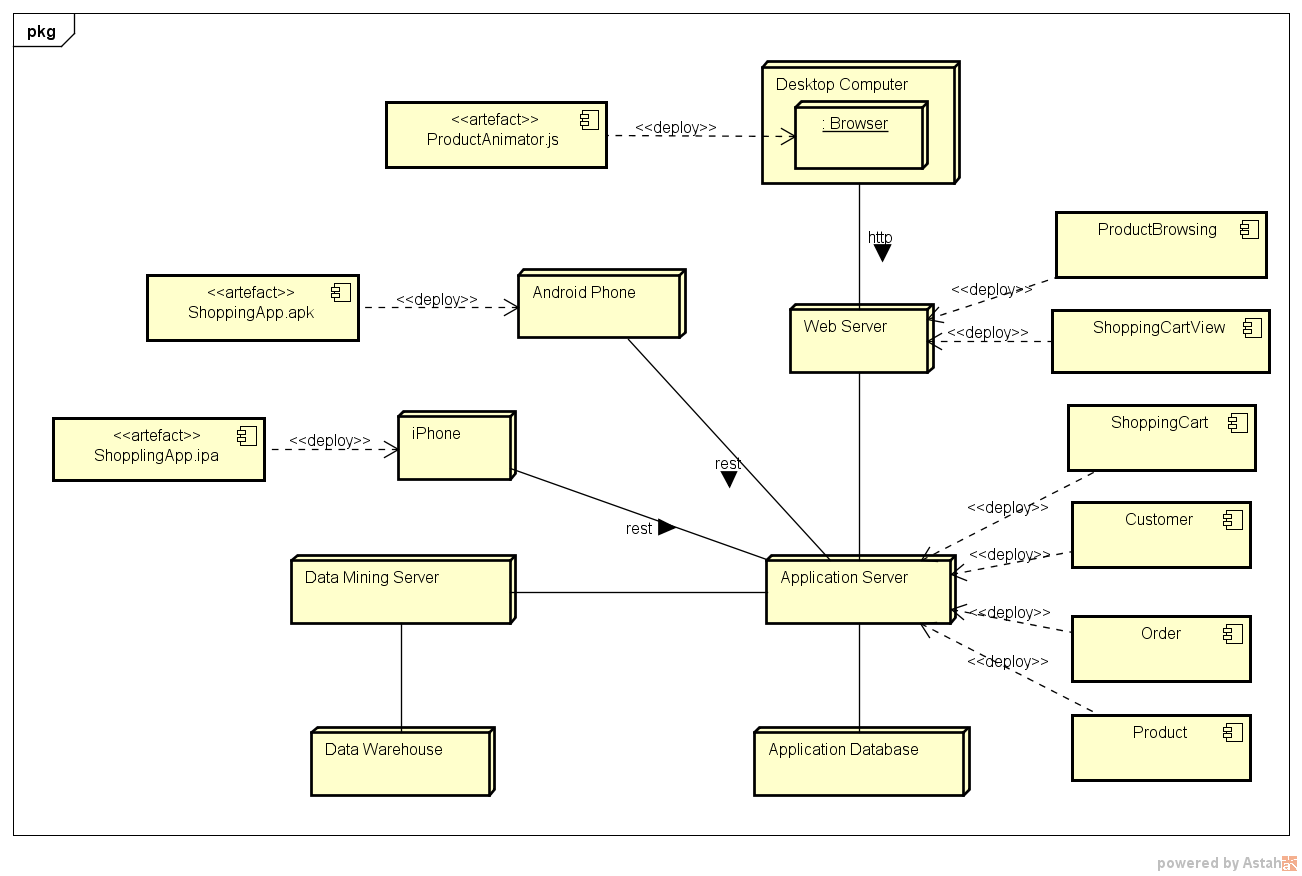
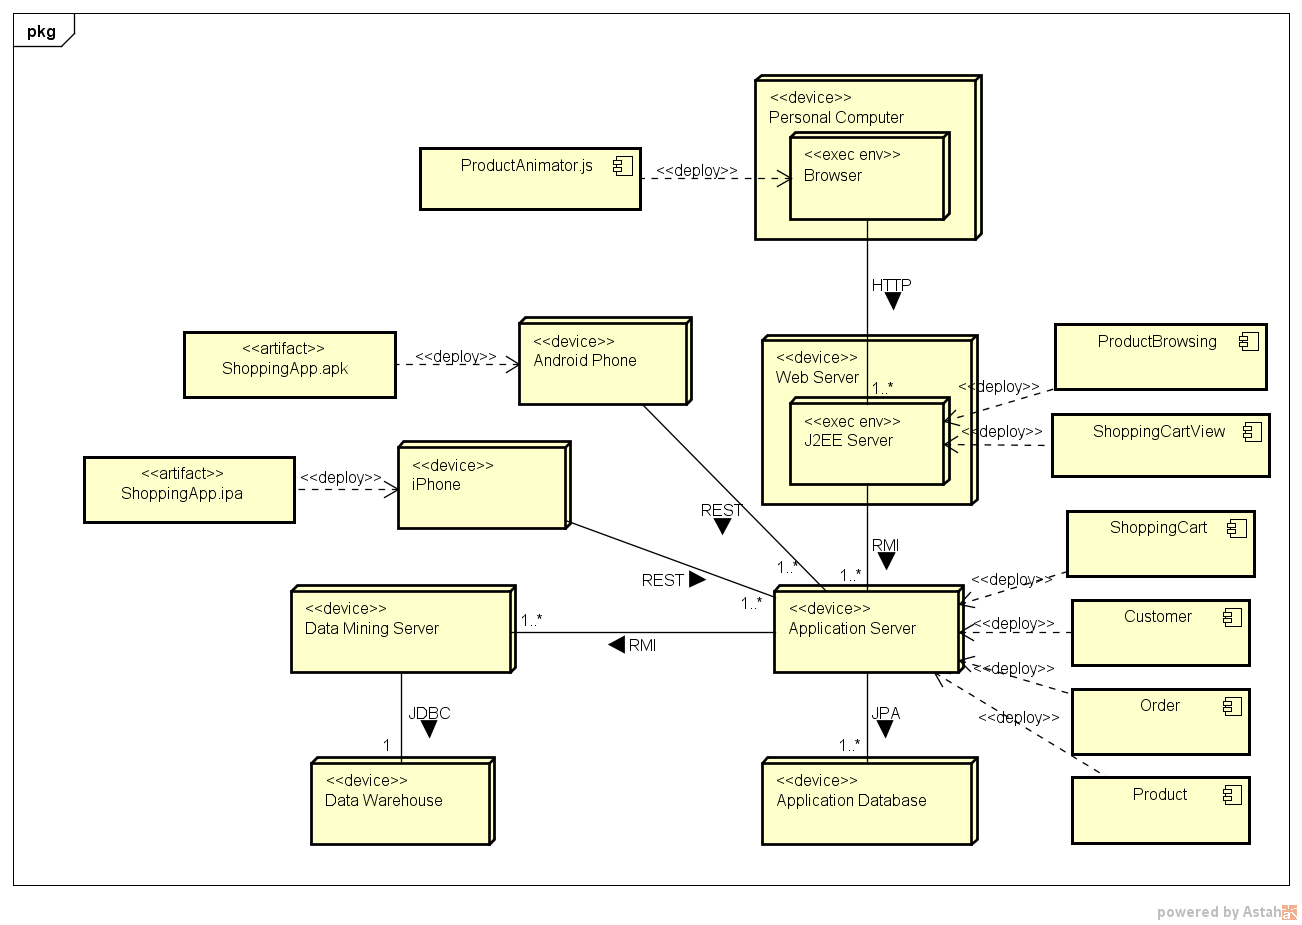
Completed example in architectural views notes.

diff --git a/notes/views/content.tex b/notes/views/content.tex
@@ -44,8 +44,8 @@ Module views are composed of modules, which are static units of functionality su
 The defining characteristic of a module is that it represents software responsible for some well-defined functionality.
 For example, a class which converts JSON to XML would be considered a module, as would a function which performs the same task.
 
-The primary function of module views are to communicate the dependencies of a module.
-Rarely does software work completely in isolation, often is it constructed with implicit or explicit dependencies.
+The primary function of module views is to communicate the dependencies of a module.
+Rarely does software work completely in isolation, often it is constructed with implicit or explicit dependencies.
 A module which converts JSON to XML might depend upon a module which parses JSON and a module which can format XML.
 Module views make these dependencies explicit.
 
@@ -102,12 +102,12 @@ The service may then communicate the new user information to a database via SQL 
 When we look at software architecture, component-and-connector views are the most commonly used views.
 They are common because they contain runtime information which is not easily automatically extracted.
 Module views can be generated after the fact, i.e. it is easy enough for a project to generate a UML inheritance diagram.
-Component-and-connector views are often something that is maintained manually by architects and developers.
+Component-and-connector views are often something that are maintained manually by architects and developers.
 
 \section{Allocation Views}
 According to Bass et al, allocation views map the software's structures to the system's non-software structures \cite{bass2021software}.
-They include the concepts of who is building which software elements,
-where are source files stored for different activites such as development and testing,
+They include concepts such as who is developing which software elements,
+where are source files stored for different activities such as development and testing,
 and where are software elements executed.
 The first two points are important for project management and build management.
 The last point of how the software is executed on different processing nodes is important for architectural design.
@@ -120,12 +120,14 @@ This design of the logical architecture must contain components that can be allo
 and these nodes must have communication links that enable the components to interact.
 
 \section{On-line Store Example}
-Consider a simple on-line store. It sells a number of different products. Customers can use both web and mobile applications providing to shop at the store.
+Consider a simple on-line store selling a number of different products. Customers can use both web and mobile applications to shop at the store.
+The architecture is designed to support the functional requirement that a customer can start shopping on one device and continue on another device.
 
 \subsection{Allocation View}
 Figure \ref{fig:deploymentDiagram} is an example allocation view of the system.
 It is a UML deployment diagram showing the system's physical architecture
 and some of the components that are deployed onto that structure.
+For simplicity, details such as load balancing and failover are not shown in this example.
 
 \begin{figure}[h]
     \includegraphics[trim=37 57 20 40,clip,width=\textwidth]{images/deployment_diagram.png}
@@ -133,15 +135,54 @@ and some of the components that are deployed onto that structure.
     \label{fig:deploymentDiagram}
 \end{figure}
 
+\noindent
 There are both web and mobile applications that allow customers to shop at the store.
-A web server handles browser requests from customers, using the HTTP protocol.
-A JavaScript module called ProductAnimator is downloaded to the customer's browser to allow them to see interactive 3d views of products.
-The ProductBrowsing and ShoppingCartView components run on the web server, providing those aspects of the user interaction.
-The web server has a network connection to an application server, which provides the core logic of the on-line store.
-Examples of components that would run on the application server are Customer, ShoppingCart, Order and Product.
-The application server has network connections to a server running the application database and to a data mining server.
-The data mining server has a network connection to a server running the data warehouse.
-The mobile applications run on their respective phone environments and use REST API calls over the internet to interact with application server.
+A J2EE server (e.g. \link{TomEE}{https://tomee.apache.org/}), running on a web server hardware platform,
+handles browser requests from customers, using the HTTP protocol over the Internet.
+A JavaScript module called \texttt{ProductAnimator} is downloaded to the customer's browser to allow them to see interactive 3d views of products.
+The \texttt{ProductBrowsing} and \texttt{ShoppingCartView} components run on the J2EE server, providing those aspects of the user interaction.
+The J2EE server uses RMI\footnote{Remote Method Invocation} over a network connection to an application server.
+
+The application server provides the core logic of the on-line store.
+Examples of components that would run on the application server are \texttt{Customer}, \texttt{ShoppingCart}, \texttt{Order} and \texttt{Product}.
+The application server uses JPA\footnote{Java Persistence API} over a network connection to a server running the application database.
+The application server also uses RMI over a network connection to communicate with a data mining server.
+
+The data mining server uses JDBC\footnote{Java DataBase Connectivity} over a network connection to a server running the data warehouse.
+The mobile applications run on their respective phone environments and use REST API calls over the Internet to interact with application server.
+
+\subsubsection{Deployment Diagram Notation}\label{sec:deploymentNotation}
+In the diagram, cube icons represent nodes. Nodes are computational resources that can execute software artifacts.
+Nodes may be \guillemotleft device\guillemotright's, representing hardware.
+They may also be \guillemotleft executionEnvironment\guillemotright's, representing software that provides an environment in which other software artifacts can be executed.
+(The keyword has been shortened to \guillemotleft exec env\guillemotright~in this example.)
+Execution environments need to be allocated to devices.
+In figure \ref{fig:deploymentDiagram}, \texttt{Browser} and \texttt{J2EE Server} are software environments running,
+respectively, on the hardware devices \texttt{Personal Computer} and \texttt{Web Server}.
+
+The solid lines between nodes are associations, which represent communication paths.
+A communication path can represent a physical connection or a protocol.
+Formally, a stereotype (e.g. \guillemotleft protocol\guillemotright) is used to distinguish the type of communication path.
+In figure \ref{fig:deploymentDiagram}, all communication paths are protocols so the stereotype is not included.
+The protocol name is used to indicate which one is being used on the communication path.
+The end of an association can indicate multiplicity, so in a deployment diagram this can be used to indicate that some nodes would be replicated
+(e.g. for performance or robustness). The `*' symbol is used to indicate many instances may be involved.
+
+The rectangles with a `plug' icon in their top-right corner are components.
+Components are executable software which need to be deployed to a node on which they will run.
+The dashed dependency arrow, with the stereotype \guillemotleft deploy\guillemotright, indicates the node on which the component will be deployed for execution.
+
+\textbf{Note}, this approach of showing components being deployed to nodes is an older style of UML.
+More recent versions of UML introduced the concept of artifacts being deployed to nodes.
+Artifacts can implement components (manifest in UML terminology), which provides an additional layer of abstraction.
+Formally, components would be manifested by an artifact that is then deployed to a node.
+In figure \ref{fig:deploymentDiagram}, components are deployed directly to nodes to keep the diagram simple.
+UML provides multiple ways to indicate which artifacts are deployed on a node, e.g. a textual list of artifacts inside the node icon.
+The approach taken for a diagram should be chosen to aid readability and reduce clutter.
+
+Artifacts are used in this diagram to represent software that has to be packaged
+(i.e. deployed through a manifest), which corresponds to the idea of an artifact in the note above.
+An artifact is represented by a rectangle with the \guillemotleft artifact\guillemotright~stereotype and the name of the artifact that is created for deployment.
 
 \subsection{Component-and-Connector View}
 Figure \ref{fig:componentDiagram} is an example component-and-connector view of a small part of the system.
@@ -149,20 +190,118 @@ It is a UML component diagram showing the logical architecture of the components
 
 \begin{figure}[h]
     \centering
-    \includegraphics[trim=37 45 20 48,clip,width=0.75\textwidth]{images/component_diagram.png}
+    \includegraphics[trim=37 48 18 50,clip,width=0.75\textwidth]{images/component_diagram.png}
     \caption{Example component-and-connector view for part of an on-line store.}
     \label{fig:componentDiagram}
 \end{figure}
 
-As was shown in figure \ref{fig:deploymentDiagram}, the ProductBrowsing and ShoppingCartView components are deployed on the web server.
-These two component provide the user interaction behaviour of browing for products, adding them to the shopping cart, and purchasing the products.
-The Product, ShoppingCart, Order and Customer components are deployed on the application server.
+\noindent
+As was shown in figure \ref{fig:deploymentDiagram}, the \texttt{ProductBrowsing} and \texttt{ShoppingCartView} components are deployed on the J2EE server.
+These two component provide the user interaction behaviour of browsing for products, adding them to the shopping cart, and purchasing the products.
+
+The \texttt{Product}, \texttt{ShoppingCart}, \texttt{Order} and \texttt{Customer} components are deployed on the application server.
 These components deliver the logical behaviour of providing information about products, tracking what is in the shopping cart, and placing orders.
-The ProductBrowsing component uses the ProductInformation and ManageCart interfaces.
-These two interfaces are realised (or implemented) by the Product and ShoppingCart components respectively.
-The ShoppingCartView component uses the CartCheckout interface, which is realised by the ShoppingCart component.
+
+The \texttt{ProductBrowsing} component uses the \texttt{\textsl{ProductInformation}} and \texttt{\textsl{ManageCart}} interfaces.
+These two interfaces are realised (or implemented) by the \texttt{Product} and \texttt{ShoppingCart} components respectively.
+The \texttt{ShoppingCartView} component uses the \texttt{\textsl{CartCheckout}} interface, which is realised by the \texttt{ShoppingCart} component.
 These interfaces describe the communication pathways between the components on the different nodes of the physical architecture.
-The ShoppingCart component uses the Product, Customer and Order components.
-At the programming level, there are likely to be interfaces between these components which are not shown in this diagram.
+
+The \texttt{ShoppingCart} component uses the \texttt{Product}, \texttt{Customer} and \texttt{Order} components.
+At the programming level, there could be interfaces between these components which are not shown in this diagram.
+
+\subsubsection{Component Diagram Notation}\label{sec:componentNotation}
+As indicated in \ref{sec:deploymentNotation}, rectangles with the `plug' icon represent components in UML.
+Circles represent interfaces, and are labelled with the interface's name.
+A line from a component to an interface circle indicates that the component provides (or realises) the interface.
+Cups represent using an interface, and a line from a component to a cup indicates that the component depends on (or uses) the interface.
+This notation visualises the connection between components.
+Dependency arrows point from a component whose runtime behaviour depends on behaviour provided by the target component.
 
 \subsection{Module View}
+Figure \ref{fig:classDiagram} is an example module view that is a UML class diagram showing the static structure of the classes that implement the \texttt{ShoppingCart} component.
+To keep the diagram simple, most operations and attributes are not shown and only the classes and interfaces related to adding items to a shopping cart and checking out are shown.
+
+\begin{figure}[h]
+    \centering
+    \begin{adjustwidth}{-9mm}{-10mm}
+        \includegraphics[trim=24 51 23 43,clip,width=0.97\paperwidth]{images/shopping_cart_class_diagram.png}
+    \end{adjustwidth}
+    \caption{Example module view for part of the shopping cart package in the class model.}
+    \label{fig:classDiagram}
+\end{figure}
+
+\noindent
+The \texttt{CartManager} and \texttt{Checkout} control classes implement, respectively, the \texttt{\textsl{ManageCart}} and \texttt{\textsl{Cart\-Checkout}} interfaces.
+These two classes implement the Façade design pattern and manage how adding items to a shopping cart and checking out are delivered by the classes in this package.
+Going back to the component and connector view (figure \ref{fig:componentDiagram}),
+when a customer, via their web browser, selects to add a product to their shopping cart,
+the \texttt{ProductBrowsing} component's logic uses the \texttt{\textsl{ManageCart}} interface's \texttt{additem} operation to send a message to the \texttt{ShoppingCart} component.
+The \texttt{CartManager} class would load the product details from the application database, using the \texttt{productId} (details not shown in this diagram),
+create a \texttt{Product} object to represent it, and add that object to the \texttt{Cart} specified by the \texttt{cartId}.
+
+When a customer wants to checkout the products in their shopping cart, the \texttt{ShoppingCartView} component
+uses the \texttt{\textsl{Checkout}} interface's \texttt{products} operation to get a list of the product details to be displayed in the shopping cart.
+The \texttt{ProductDetails} class is a Java bean that is used to pass the data about each product to the \texttt{ShoppingCartView}.
+Once a customer decides to buy the products in their shopping cart, the \texttt{ShoppingCartView} sends the \texttt{checkOut} message to the \texttt{ShoppingCart}.
+\texttt{Checkout} uses the \texttt{\textsl{PaymentGateway}} interface to process the payment.
+
+\subsubsection{Class Diagram Notation}\label{sec:classNotation}
+Formally in UML, rectangles represent classifiers. A class is one type of classifier.
+In a class diagram, a rectangle represents a class, unless a keyword is used to indicate that it is a different type of classifier.
+Classifier rectangles have three compartments.
+The top compartment is its name and optionally includes keyword, stereotypes and properties for the classifier.
+The middle compartment contains attributes.
+The bottom compartment contains operations.
+
+Solid lines represent associations, which may optionally have an arrow indicating the direction of the relationship.
+An association indicates a structural relationship between classes.
+Typically this means that the target of an association will be an implicit attribute of the class.
+The end of an association can use multiplicity to indicate the number of objects of the class that may take part in the relationship.
+A diamond on the end of an association indicates aggregate relationship.
+The diamond is on the end that is the aggregate, and the other end is the part.
+The diamond may be filled or not. A filled diamond represents \emph{composition} in UML.
+This indicates `ownership', where the aggregate controls the lifespan of the part.
+A hollow diamond, as in the relationship between \texttt{Order} and \texttt{Product},
+indicates \emph{aggregation} in UML.
+This is a weaker relationship than composition, as the aggregate does not control the lifespan of the part,
+but it still indicates a strong relationship between the classes.
+
+A dashed line with an open arrowhead (e.g. from \texttt{CartManager} to \texttt{Product})
+indicates that one classifier depends on (or uses) another. This is meant to indicate a transient relationship.
+
+A dashed lines with a closed and hollow arrowhead (e.g. from \texttt{Checkout} to \texttt{\textsl{CartCheckout}})
+indicates that the class is realising (or implementing) that interface.
+
+\textit{Italicised} names indicate an abstract classifier. Keywords are used to indicate the type of a classifier.
+In this example, \guillemotleft interface\guillemotright~indicates that the classifier is an interface.
+Stereotypes use the same notation as keywords. Three standard stereotypes for classes in UML are:
+\begin{description}[nosep,left=5mm]
+    \item[\guillemotleft entity\guillemotright] An entity (or concept) from the problem domain.
+    \item[\guillemotleft control\guillemotright] Provides logical behaviour from the solution domain.
+    \item[\guillemotleft boundary\guillemotright] Communicates with something outside of the system. (Not shown in diagram.)
+\end{description}
+An additional stereotype \guillemotleft bean\guillemotright~is used to indicate that the class is a Java bean.
+
+\section{Alternative Views}
+These notes have adopted the approach advocated by Bass et al \cite{bass2021software}.
+Other experts in the field have advocated other views to describe software architecture.
+Phillipe Krutchen was one of the earliest to advocate the idea of using views to document software architectures.
+In the article ``4+1 View Model of Software Architecture'' \cite{4+1-model} he describes five different views.
+These are logical, process, development, physical and scenario views.
+\begin{description}[nosep,left=5mm]
+    \item[Logical] Describing how functionality is implemented, using class and state diagrams.
+    \item[Process] Describing runtime behaviour, including concurrency, distribution, performance and scalability.
+                            Sequence, communication and activity diagrams are used to describe this view.
+    \item[Development] Describing the software structure from a developer's perspective, using package and component diagrams.
+                                    This is also known as the implementation view.
+    \item[Physical] Describing the hardware environment and deployment of software components.
+                            This is also known as the deployment view.
+    \item[Scenario] Describing interactions between objects and between processes to deliver functional requirements.
+                             This is the `+1' view as it is used to validate the software architecture.
+                             This is also known as the use case view.
+\end{description}
+
+\section{Conclusion}
+Architectural views help developers understand the different dimensions and details of a complex software architecture.
+As a software architect you need to choose which views provide meaningful information about your software system.

diff --git a/notes/views/main.tex b/notes/views/main.tex
@@ -1,15 +1,17 @@
 \documentclass{csse4400}
 
 \title{Architectural Views}
-\author{Brae Webb}
+\author{Brae Webb \& Richard Thomas}
 
-\date{{\color{red} The Future}}
+\date{\today}
 
 \usepackage{tikz}
 \usetikzlibrary{fit}
 
 \usepackage{caption}
 \usepackage{subcaption}
+\usepackage{changepage}
+\usepackage{enumitem}
 
 \usepackage{languages}
 

diff --git a/assessment/documentation/main.tex b/assessment/documentation/main.tex
@@ -2,14 +2,6 @@
 
 \usepackage{CJKutf8}
 
-\hypersetup{
-    colorlinks=true,
-    linkcolor=violet,
-    filecolor=purple,      
-    urlcolor=blue,
-    citecolor=black,
-}
-
 \title{Documenting an Architecture}
 \author{Brae Webb \& Richard Thomas}
 \date{Semester 1, 2022}
